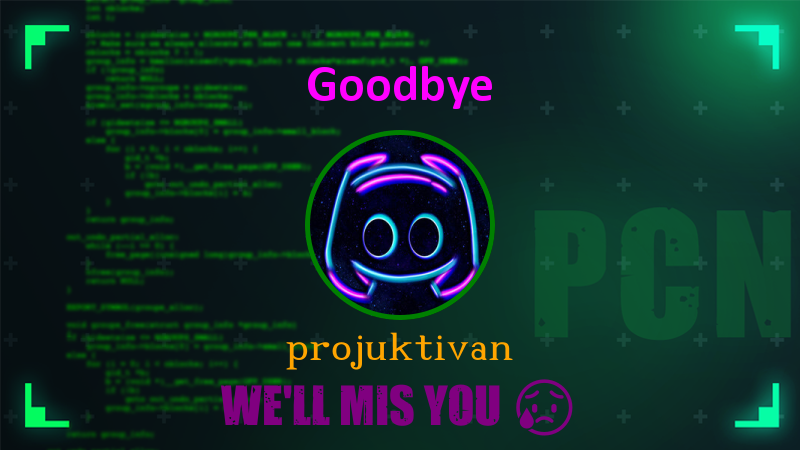
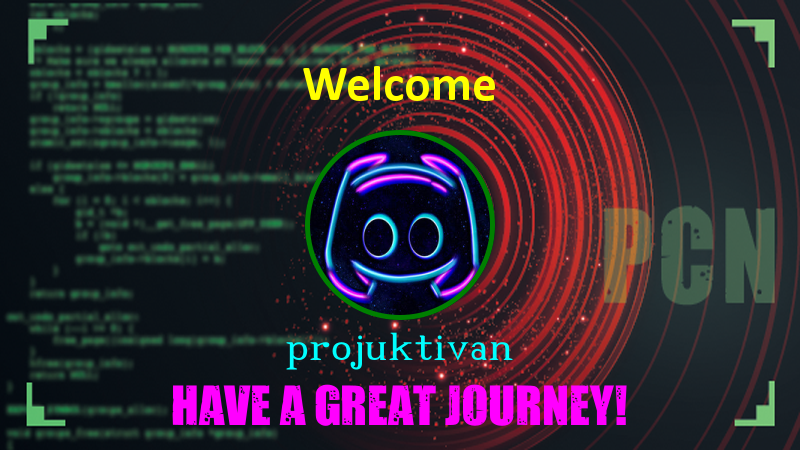
autoAssignRoleOnMemberJoin

diff --git a/helperFunctions.js b/helperFunctions.js
@@ -2,7 +2,7 @@ const { MessageAttachment } = require('discord.js');
 const fs = require('fs');
 const { registerFont, createCanvas, loadImage } = require('canvas');
 
-const colors = ['#00FFFF', '#800080', '#FF00FF', '#fff', '#FFFF00', '#00FF00', '#FFA500',];
+const colors = ['#00FFFF', '#FF00FF', '#fff', '#FFFF00', '#00FF00', '#FFA500',];
 
 function sendMessage(msgObj, message) {
     msgObj.reply(message)
@@ -17,7 +17,7 @@ function messageHandler(message) {
         message.react('❤');
         sendMessage(message, "I'm good! What about you?");
     }
-    if (message.author.username === 'Angry〆Mental' || message.author.username === '!    HiddenFigure🔆') {
+    if (message.author.username === 'Angry〆Mental'/* || message.author.username === '!    HiddenFigure🔆'*/) {
         //console.log(message.author.avatarURL({ 'format': 'png', 'size': 256 }));
         constructImageAndSend(message.author, message.channel);
 
@@ -69,6 +69,7 @@ function handleMemberAdd(member) {
     }
     // console.log(member.user);
     constructImageAndSend(member.user, channel);
+    roleManager(member,"Select Your Roles",true);
 
 }
 
@@ -80,6 +81,7 @@ function handleMemberRemove(member) {
     }
     // console.log(member.user);
     constructImageAndSend(member.user, channel, 'Goodbye', 'We\'ll mis you 😥');
+    roleManager(member,"Select Your Roles",false);
 }
 
 
@@ -87,7 +89,7 @@ async function constructImageAndSend(memberObj, channel, upper = "Welcome", tagl
     const banners = fs.readdirSync('./assets/images/wc-banner').filter(file => file.endsWith('.png'));
     const selectedImage = banners[parseInt(Math.random() * banners.length)];
 
-    console.log(banners, parseInt(Math.random() * banners.length));
+    // console.log(banners, parseInt(Math.random() * banners.length));
 
     const img = loadImage(`./assets/images/wc-banner/${selectedImage}`).then(image => {
 
@@ -123,7 +125,7 @@ async function constructImageAndSend(memberObj, channel, upper = "Welcome", tagl
             context.textAlign = 'left';
             context.textBaseline = 'top';
             const username = memberObj.username;
-            console.log(username);
+            // console.log(username);
             const textWidth = context.measureText(username).width;
 
             let nameTextCol = parseInt(Math.random() * colors.length);
@@ -154,7 +156,7 @@ async function constructImageAndSend(memberObj, channel, upper = "Welcome", tagl
             // Draw the avatar image into the circle
             const circleImageWidth = circleImage.width;
             const circleImageHeight = circleImage.height;
-            console.log(circleImageWidth, circleImageHeight);
+            // console.log(circleImageWidth, circleImageHeight);
             context.drawImage(circleImage, centerX - 95, centerY - 95, circleImageWidth * .75, circleImageHeight * .75);
 
             //Stroke of the circle
@@ -167,12 +169,16 @@ async function constructImageAndSend(memberObj, channel, upper = "Welcome", tagl
             const buffer = canvas.toBuffer('image/png');
             try {
                 fs.writeFileSync('./test.png', buffer);
-                console.log("Saved");
+                // console.log("Saved");
                 const attachments = new MessageAttachment('./test.png');
-                console.log(attachments);
+                // console.log(attachments);
+                let message = `Huh! ${username} has just left us`;
+                if(upper.toLowerCase() == 'welcome'){
+                    message = `For detailed guide visit <#974719552929796108>.`;
+                }
                 channel.send({
                     files: [attachments],
-                    content: `Hello`
+                    content: message
                 });
                 return true;
             } catch (e) {
@@ -183,5 +189,22 @@ async function constructImageAndSend(memberObj, channel, upper = "Welcome", tagl
 
     });
 }
+
+// Adding a role while joining the server
+function roleManager(member, theRole, operation = true){
+    // operation true means add.
+    if(operation){
+        console.log("Need to add role");
+        const role = member.guild.roles.cache.find(role => role.name == theRole);
+        if(role){
+            console.log(`${member.id}`);
+            member.roles.add(role);
+            console.log("Successfully added role");
+        }
+    }else{
+        console.log("Need to remove role");
+    }
+}
+
 
 module.exports = { sendMessage, messageHandler, fetchAllMessages, deleteMessages, handleMemberAdd, handleMemberRemove }

diff --git a/index.js b/index.js
@@ -31,8 +31,8 @@ const client = new Client({
 
 client.on('ready', () => {
     console.log(`Logged in as ${client.user.tag}!`);
-    client.user.setActivity("in Tamim's PC! 😐", { type: 'PLAYING' });
-    client.user.setStatus('active');
+    client.user.setActivity("Muza's PC! 😐", { type: 'COMPETING' });
+    client.user.setStatus('idle');
 });
 
 
